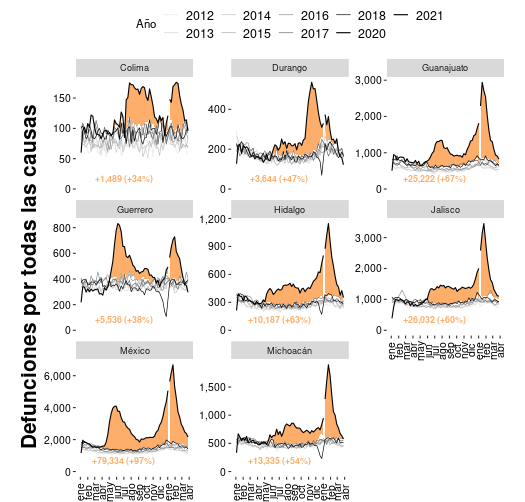
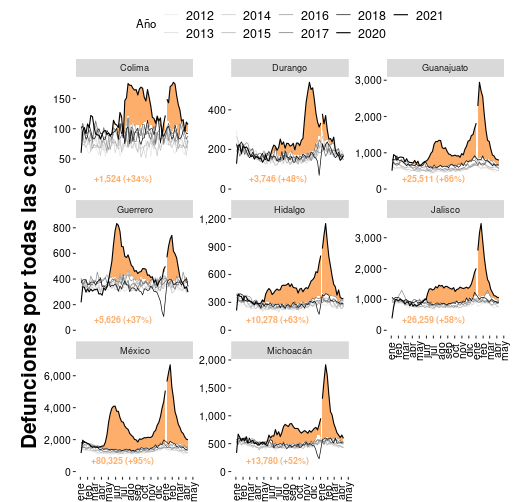
Exceso de mortalidad 2020-05-20

diff --git a/content/muertes/exceso_mortalidad_nacional.md b/content/muertes/exceso_mortalidad_nacional.md
@@ -11,8 +11,8 @@ son diagnosticadas. En
 <a href="https://www.economist.com/graphic-detail/2020/07/15/tracking-covid-19-excess-deaths-across-countries">países</a>
 se ha observado que la pandemia provoca un <i>exceso de mortalidad</i>.</p>
 
-<p>En México, desde el inicio de la pandemia y hasta el 27 de marzo de 2021
-se han registrado <b>65% más defunciones</b> que en el mismo periodo de años
+<p>En México, desde el inicio de la pandemia y hasta el 10 de abril de 2021
+se han registrado <b>64% más defunciones</b> que en el mismo periodo de años
 previos.
 Estos números son preliminares ya que el catálogo nacional de defunciones
 tarda dos años en finalizarse.</p>

diff --git a/content/muertes/exceso_mortalidad_estados2.md b/content/muertes/exceso_mortalidad_estados2.md
@@ -8,7 +8,7 @@ medir el costo humano en cada entidad.</p>
 
 <p>Estas gráficas muestran el
 <a href="#exceso_mortalidad_nacional"><i>exceso de mortalidad</i></a>
-hasta el 27 de marzo de 2021 para 8 de las 32 entidades federativas del país.
+hasta el 10 de abril de 2021 para 8 de las 32 entidades federativas del país.
 La región con color indica las semanas con <i>exceso de mortalidad</i>.
 Se indica el número absoluto de exceso de mortalidad para canda entidad y el
 incremento porcentual. Las entidades federativas están organizadas

diff --git a/content/muertes/exceso_mortalidad_estados3.md b/content/muertes/exceso_mortalidad_estados3.md
@@ -8,7 +8,7 @@ medir el costo humano en cada entidad.</p>
 
 <p>Estas gráficas muestran el
 <a href="#exceso_mortalidad_nacional"><i>exceso de mortalidad</i></a>
-hasta el 27 de marzo de 2021 para 8 de las 32 entidades federativas del país.
+hasta el 10 de abril de 2021 para 8 de las 32 entidades federativas del país.
 La región con color indica las semanas con <i>exceso de mortalidad</i>.
 Se indica el número absoluto de exceso de mortalidad para canda entidad y el
 incremento porcentual. Las entidades federativas están organizadas

diff --git a/content/muertes/exceso_mortalidad_estados4.md b/content/muertes/exceso_mortalidad_estados4.md
@@ -8,7 +8,7 @@ medir el costo humano en cada entidad.</p>
 
 <p>Estas gráficas muestran el
 <a href="#exceso_mortalidad_nacional"><i>exceso de mortalidad</i></a>
-hasta el 27 de marzo de 2021 para 8 de las 32 entidades federativas del país.
+hasta el 10 de abril de 2021 para 8 de las 32 entidades federativas del país.
 La región con color indica las semanas con <i>exceso de mortalidad</i>.
 Se indica el número absoluto de exceso de mortalidad para canda entidad y el
 incremento porcentual. Las entidades federativas están organizadas

diff --git a/content/muertes/exceso_mortalidad_estados1.md b/content/muertes/exceso_mortalidad_estados1.md
@@ -8,7 +8,7 @@ medir el costo humano en cada entidad.</p>
 
 <p>Estas gráficas muestran el
 <a href="#exceso_mortalidad_nacional"><i>exceso de mortalidad</i></a>
-hasta el 27 de marzo de 2021 para 8 de las 32 entidades federativas del país.
+hasta el 10 de abril para 8 de las 32 entidades federativas del país.
 La región con color indica las semanas con <i>exceso de mortalidad</i>.
 Se indica el número absoluto de exceso de mortalidad para canda entidad y el
 incremento porcentual. Las entidades federativas están organizadas
